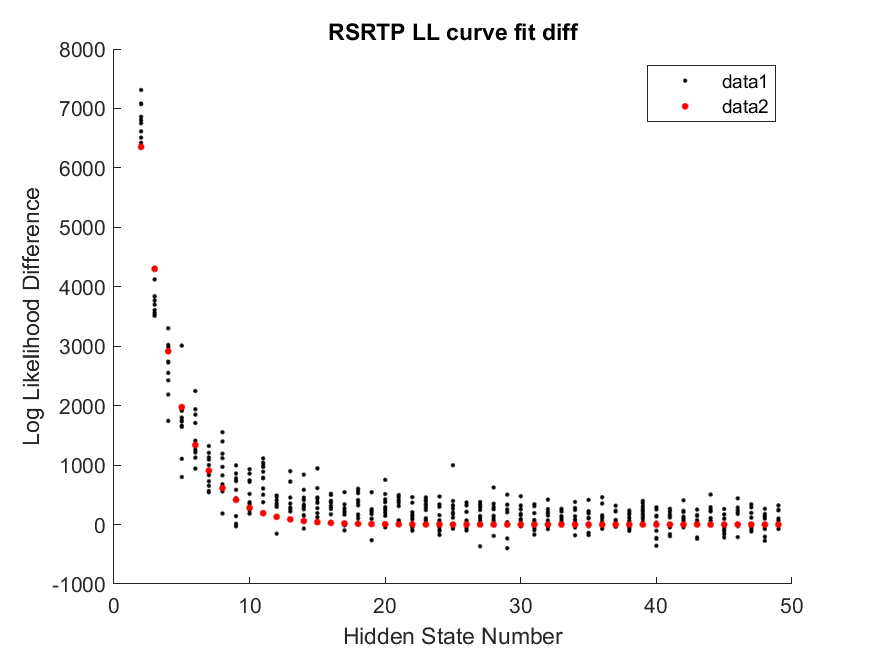
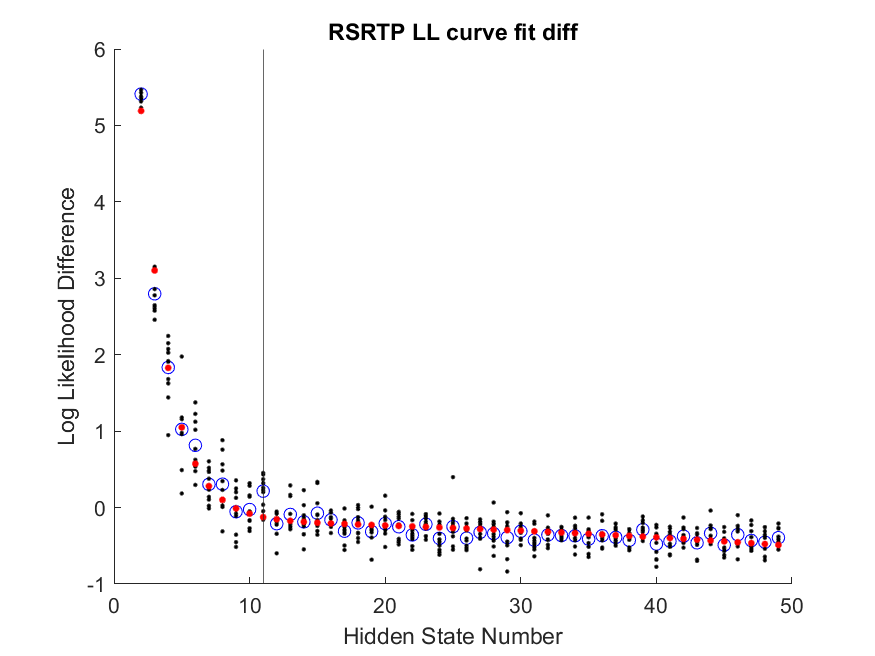
more LL analysis

diff --git a/code/python_switching_models/matlab_reimport.m b/code/python_switching_models/matlab_reimport.m
@@ -1,13 +1,16 @@
 %% Import Data from Python and integrate into matlab struct.
 
-filepath_base = 'C:\Users\calebsponheim\Documents\git\intermittent_control_project\data\python_switching_models\';
+% file_base_base = 'C:\Users\calebsponheim';
+file_base_base = 'C:\Users\Caleb (Work)';
+filepath_base = [file_base_base '\Documents\git\intermittent_control_project\data\python_switching_models\'];
+figure_base = [file_base_base '\Documents\git\intermittent_control_project\figures\'];
 % filepath = [filepath_base 'Bxcenter_out1902280.05_sBins_move_window_only\'];
 % filepath = [filepath_base 'Bxcenter_out1902280.05sBins\'];
 % filepath = [filepath_base 'Bxcenter_out_and_RTP1902280.05sBins\'];
 % filepath = [filepath_base 'RSCO0.05sBins\'];
 % filepath = [filepath_base 'RSCO_move_window0.05sBins\'];
-filepath = [filepath_base 'RSRTP0.05sBins\'];
-% filepath = [filepath_base 'RJRTP0.05sBins\'];
+% filepath = [filepath_base 'RSRTP0.05sBins\'];
+filepath = [filepath_base 'RJRTP0.05sBins\'];
 
 state_num = 16;
 num_states_subject = state_num;
@@ -227,17 +230,17 @@ elseif contains(filepath,'RS') || contains(filepath,'RJ')
     
     % Plotting LL
     if length(ll_files) == 1
-        figure('visible','on'); hold on
+        figure('visible','off'); hold on
         curve_exp = fit(state_range,select_ll,'exp2');
-        figure('visible','on'); hold on
+        figure('visible','off'); hold on
         plot(state_range,curve_exp(state_range))
         plot(state_range,select_ll,'k.')
         title([meta.subject,meta.task,' LL curve fit'])
         legend('Location','southeast')
         if meta.move_only == 1
-            meta.figure_folder_filepath = ['C:\Users\calebsponheim\Documents\git\intermittent_control_project\figures\' meta.subject '\' meta.task '_CT0_move_only\'];
+            meta.figure_folder_filepath = [figure_base meta.subject '\' meta.task '_CT0_move_only\'];
         else
-            meta.figure_folder_filepath = ['C:\Users\calebsponheim\Documents\git\intermittent_control_project\figures\' meta.subject '\' meta.task '_CT0\'];
+            meta.figure_folder_filepath = [figure_base meta.subject '\' meta.task '_CT0\'];
         end
         saveas(gcf,strcat(meta.figure_folder_filepath,'\',meta.subject,meta.task,'_LL_curve_fit.png'));
     else
@@ -256,46 +259,51 @@ elseif contains(filepath,'RS') || contains(filepath,'RJ')
         end
         
         select_ll_for_plotting = reshape(select_ll_for_plotting',[size(select_ll_for_plotting,1)*size(select_ll_for_plotting,2) 1]);
-        select_ll_diff_for_plotting = reshape(select_ll_diff_for_plotting',[size(select_ll_diff_for_plotting,1)*size(select_ll_diff_for_plotting,2) 1]);
+        select_ll_diff_for_plotting_reshaped = reshape(select_ll_diff_for_plotting',[size(select_ll_diff_for_plotting,1)*size(select_ll_diff_for_plotting,2) 1]);
         curve_exp = fit(state_range_for_fit,select_ll_for_plotting,'exp2');
-        curve_exp_diff = fit(state_range_for_diff_fit,select_ll_diff_for_plotting,'exp1');
+        curve_exp_diff = fit(state_range_for_diff_fit,zscore(select_ll_diff_for_plotting_reshaped),'exp2');
+
+%         figure('visible','off'); hold on
+%         plot(state_range,curve_exp(state_range))
+%         plot(state_range_for_fit,select_ll_for_plotting,'k.')
+%         title([meta.subject,meta.task,' LL curve fit'])
+%         legend('Location','southeast')
+%         xlabel('Hidden State Number')
+%         ylabel('likelihood minus baseline')
+%         box off
+%         set(gcf,'color','white')
+%         
+%         if meta.move_only == 1
+%             meta.figure_folder_filepath = [figure_base meta.subject '\' meta.task '_CT0_move_only\'];
+%         else
+%             meta.figure_folder_filepath = [figure_base meta.subject '\' meta.task '_CT0\'];
+%         end
+%         saveas(gcf,strcat(meta.figure_folder_filepath,'\',meta.subject,meta.task,'_LL_curve_fit.png'));
 
         figure('visible','off'); hold on
-        plot(state_range,curve_exp(state_range))
-        plot(state_range_for_fit,select_ll_for_plotting,'k.')
-        title([meta.subject,meta.task,' LL curve fit'])
-        legend('Location','southeast')
-        xlabel('Hidden State Number')
-        ylabel('likelihood minus baseline')
-        box off
-        set(gcf,'color','white')
+%         plot(state_range_for_diff_fit,zscore(select_ll_diff_for_plotting_reshaped),'k.')
+        plot(state_range(2:end),zscore(mean(select_ll_diff_for_plotting)),'bo')
+        plot(state_range(2:end),zscore(select_ll_diff_for_plotting'),'k.')
         
-        if meta.move_only == 1
-            meta.figure_folder_filepath = ['C:\Users\calebsponheim\Documents\git\intermittent_control_project\figures\' meta.subject '\' meta.task '_CT0_move_only\'];
-        else
-            meta.figure_folder_filepath = ['C:\Users\calebsponheim\Documents\git\intermittent_control_project\figures\' meta.subject '\' meta.task '_CT0\'];
-        end
-        saveas(gcf,strcat(meta.figure_folder_filepath,'\',meta.subject,meta.task,'_LL_curve_fit.png'));
-
-        figure('visible','off'); hold on
-        plot(state_range_for_diff_fit,select_ll_diff_for_plotting,'k.')
+        state_range_for_optimal = state_range(2:end);
+        zscore_above_zero = state_range_for_optimal(zscore(mean(select_ll_diff_for_plotting)) > 0);
+        optimal_state_number = zscore_above_zero(end);
+        xline(optimal_state_number);
         plot(state_range_for_diff_fit,curve_exp_diff(state_range_for_diff_fit),'r.','markersize',10)
         title([meta.subject,meta.task,' LL curve fit diff'])
-        legend('Location','northeast')
+%         legend('Location','northeast')
         xlabel('Hidden State Number')
         ylabel('Log Likelihood Difference')
         box off
         set(gcf,'color','white')
 
         if meta.move_only == 1
-            meta.figure_folder_filepath = ['C:\Users\calebsponheim\Documents\git\intermittent_control_project\figures\' meta.subject '\' meta.task '_CT0_move_only\'];
+            meta.figure_folder_filepath = [figure_base meta.subject '\' meta.task '_CT0_move_only\'];
         else
-            meta.figure_folder_filepath = ['C:\Users\calebsponheim\Documents\git\intermittent_control_project\figures\' meta.subject '\' meta.task '_CT0\'];
+            meta.figure_folder_filepath = [figure_base meta.subject '\' meta.task '_CT0\'];
         end
         saveas(gcf,strcat(meta.figure_folder_filepath,'\',meta.subject,meta.task,'_LL_curve_fit_diff.png'));
         
-        LL_curve = curve_exp(state_range);
-        LL_max = find(LL_curve == max(LL_curve));
     end
     num_states_subject = state_num;
     meta.optimal_number_of_states = num_states_subject;
